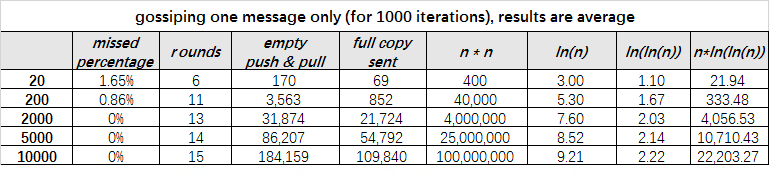
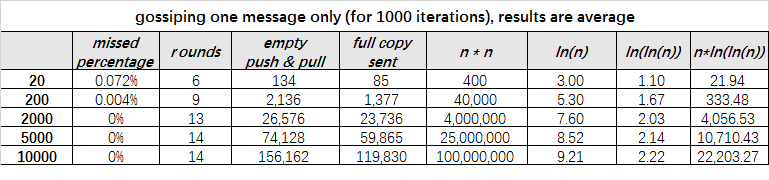
new_from_peer not to insert peer in the count list

diff --git a/src/message_state.rs b/src/message_state.rs
@@ -59,14 +59,12 @@ impl MessageState {
     /// Construct a new `MessageState` where we've received the message from a peer.  If that peer
     /// is in state B (`counter < counter_max`) we start in state B with `our_counter` set to `1`.
     /// If the peer is in state C, we start in state C too.
-    pub fn new_from_peer(peer_id: Id, counter: u8, counter_max: u8) -> Self {
+    pub fn new_from_peer(counter: u8, counter_max: u8) -> Self {
         if counter < counter_max {
-            let mut peer_counters = BTreeMap::new();
-            let _ = peer_counters.insert(peer_id, counter);
             return MessageState::B {
                 round: 0,
                 our_counter: 1,
-                peer_counters,
+                peer_counters: BTreeMap::new(),
             };
         }
         MessageState::C {

diff --git a/src/gossip.rs b/src/gossip.rs
@@ -157,11 +157,7 @@ impl Gossip {
             match self.messages.entry(message) {
                 Entry::Occupied(mut entry) => entry.get_mut().receive(peer_id, counter),
                 Entry::Vacant(entry) => {
-                    let _ = entry.insert(MessageState::new_from_peer(
-                        peer_id,
-                        counter,
-                        self.counter_max,
-                    ));
+                    let _ = entry.insert(MessageState::new_from_peer(counter, self.counter_max));
                 }
             }
         }
